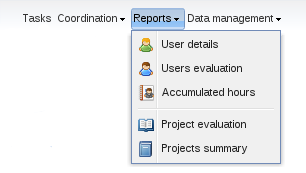
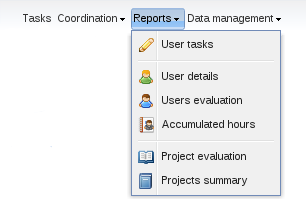
Added a new section in the user documentation for the user tasks report.

Changed region(s): [[0.0588, 0.0289, 0.9412, 0.9827], [0.5294, 0.3468, 0.7941, 0.4335]]

diff --git a/docs/user/reports.rst b/docs/user/reports.rst
@@ -8,6 +8,60 @@ They can be accessed in the *Reports* menu.
 
 .. figure:: i/reports-menu.png
 
+User tasks
+==========
+
+.. figure:: i/user-tasks-screen.png
+
+This report retrieves the list of tasks introduced by a user which match certain
+conditions.
+
+The top of the screen contains a box with all the available filters. In all
+cases, leaving a field empty means that the field won't be taken into account.
+This is the full list of available options:
+
+Dates between ... and ...
+  Filter tasks according to their date. You can use only the first field to get
+  the tasks since a particular date or only the second field to get the tasks
+  saved before or at that date.
+
+Task description:
+  A text string can be set here to search it inside the description field of
+  tasks. You can also select in a drop-down list the options **[empty]** or
+  **[not empty]** to search the tasks that contain some text or no text in that
+  field.
+
+Customer:
+  You can filter the tasks assigned to a specific customer selecting one from
+  this list.
+
+Project:
+  You can filter the tasks assigned to a specific project selecting one from
+  this list.
+
+Task type:
+  You can filter the tasks tagged with a specific task type selecting one from
+  this list.
+
+Story:
+  A text string can be set here to search it inside the story field of
+  tasks. You can also select in a drop-down list the options **[empty]** or
+  **[not empty]** to search the tasks that contain some text or no text in that
+  field.
+
+TaskStory:
+  You can filter the tasks related with a specific category inside a XP tracker
+  iteration selecting one from this list.
+
+Task type:
+  You can filter the tasks tagged as telework or the opposite with this option.
+
+The results are shown in the grid in the central area of the screen; rows
+represent tasks and columns represent the different data stored in them.
+Finally, in the bottom of the grid there are two buttons named **Standard view**
+and **Extended view**. The first one hides some columns to show a more compact
+grid (it's the default option), while the second one shows all the columns.
+
 User details
 ============
 

diff --git a/docs/user/index.rst b/docs/user/index.rst
@@ -16,6 +16,7 @@ concepts to use PhpReport both for worker and manager profiles.
 
 #. `Reports <reports.html>`__
 
+   * `User tasks <reports.html#user-tasks>`__
    * `User details <reports.html#user-details>`__
    * `User evaluation <reports.html#user-evaluation>`__
    * `Accumulated hours <reports.html#accumulated-hours>`__
